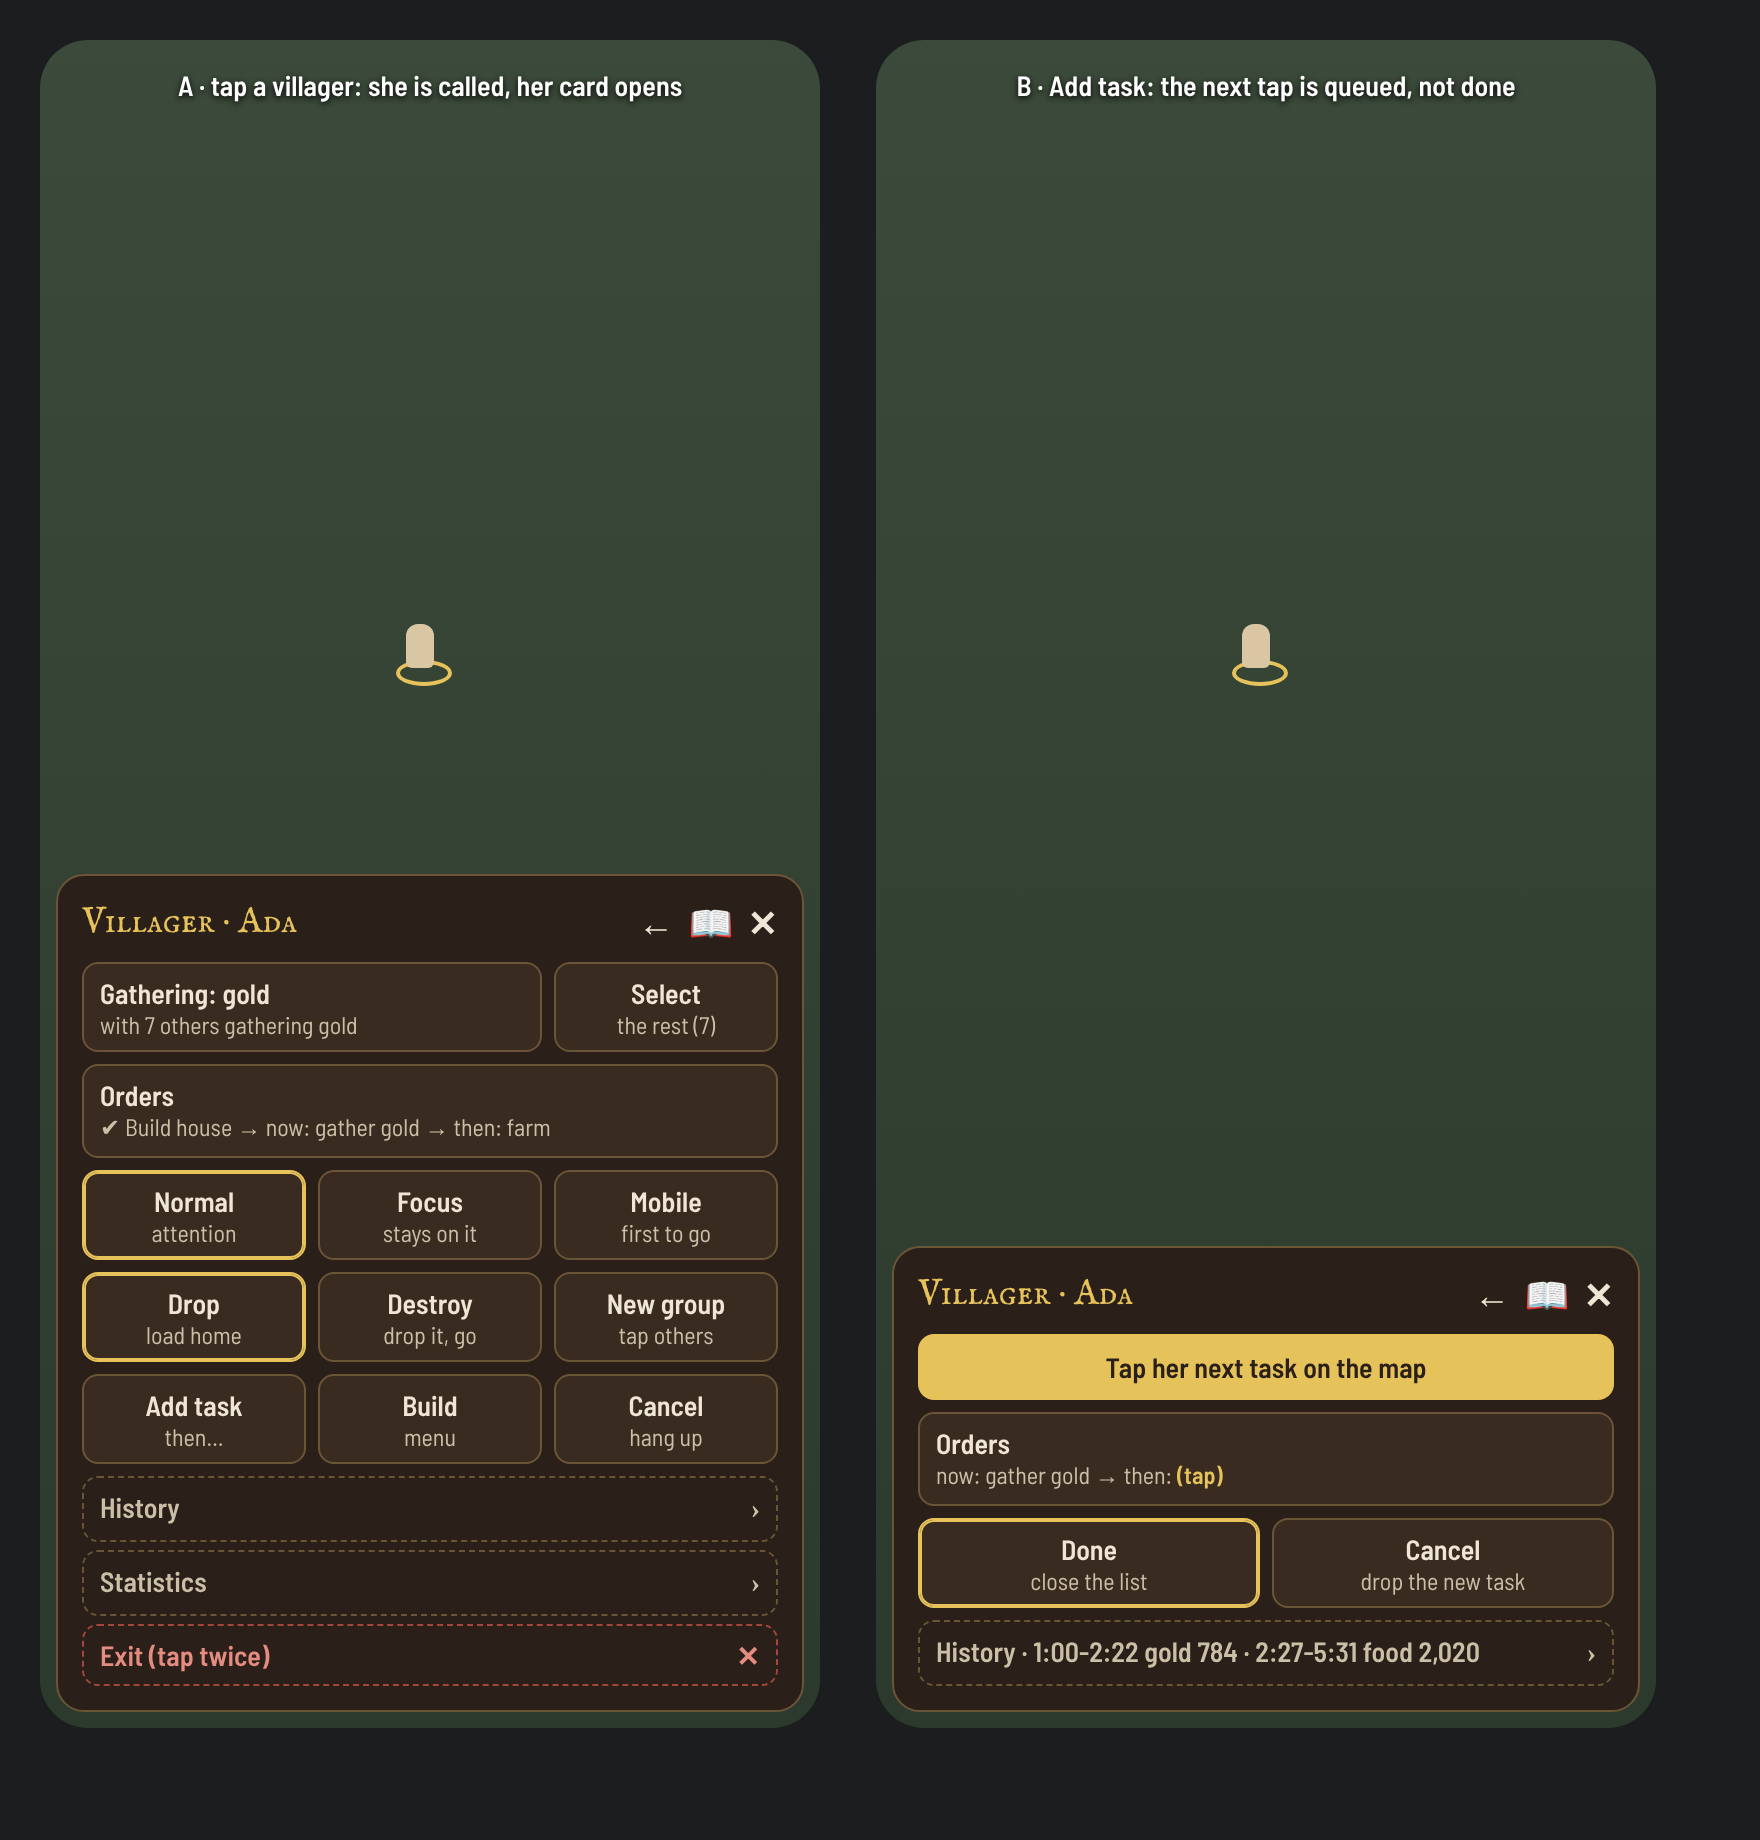
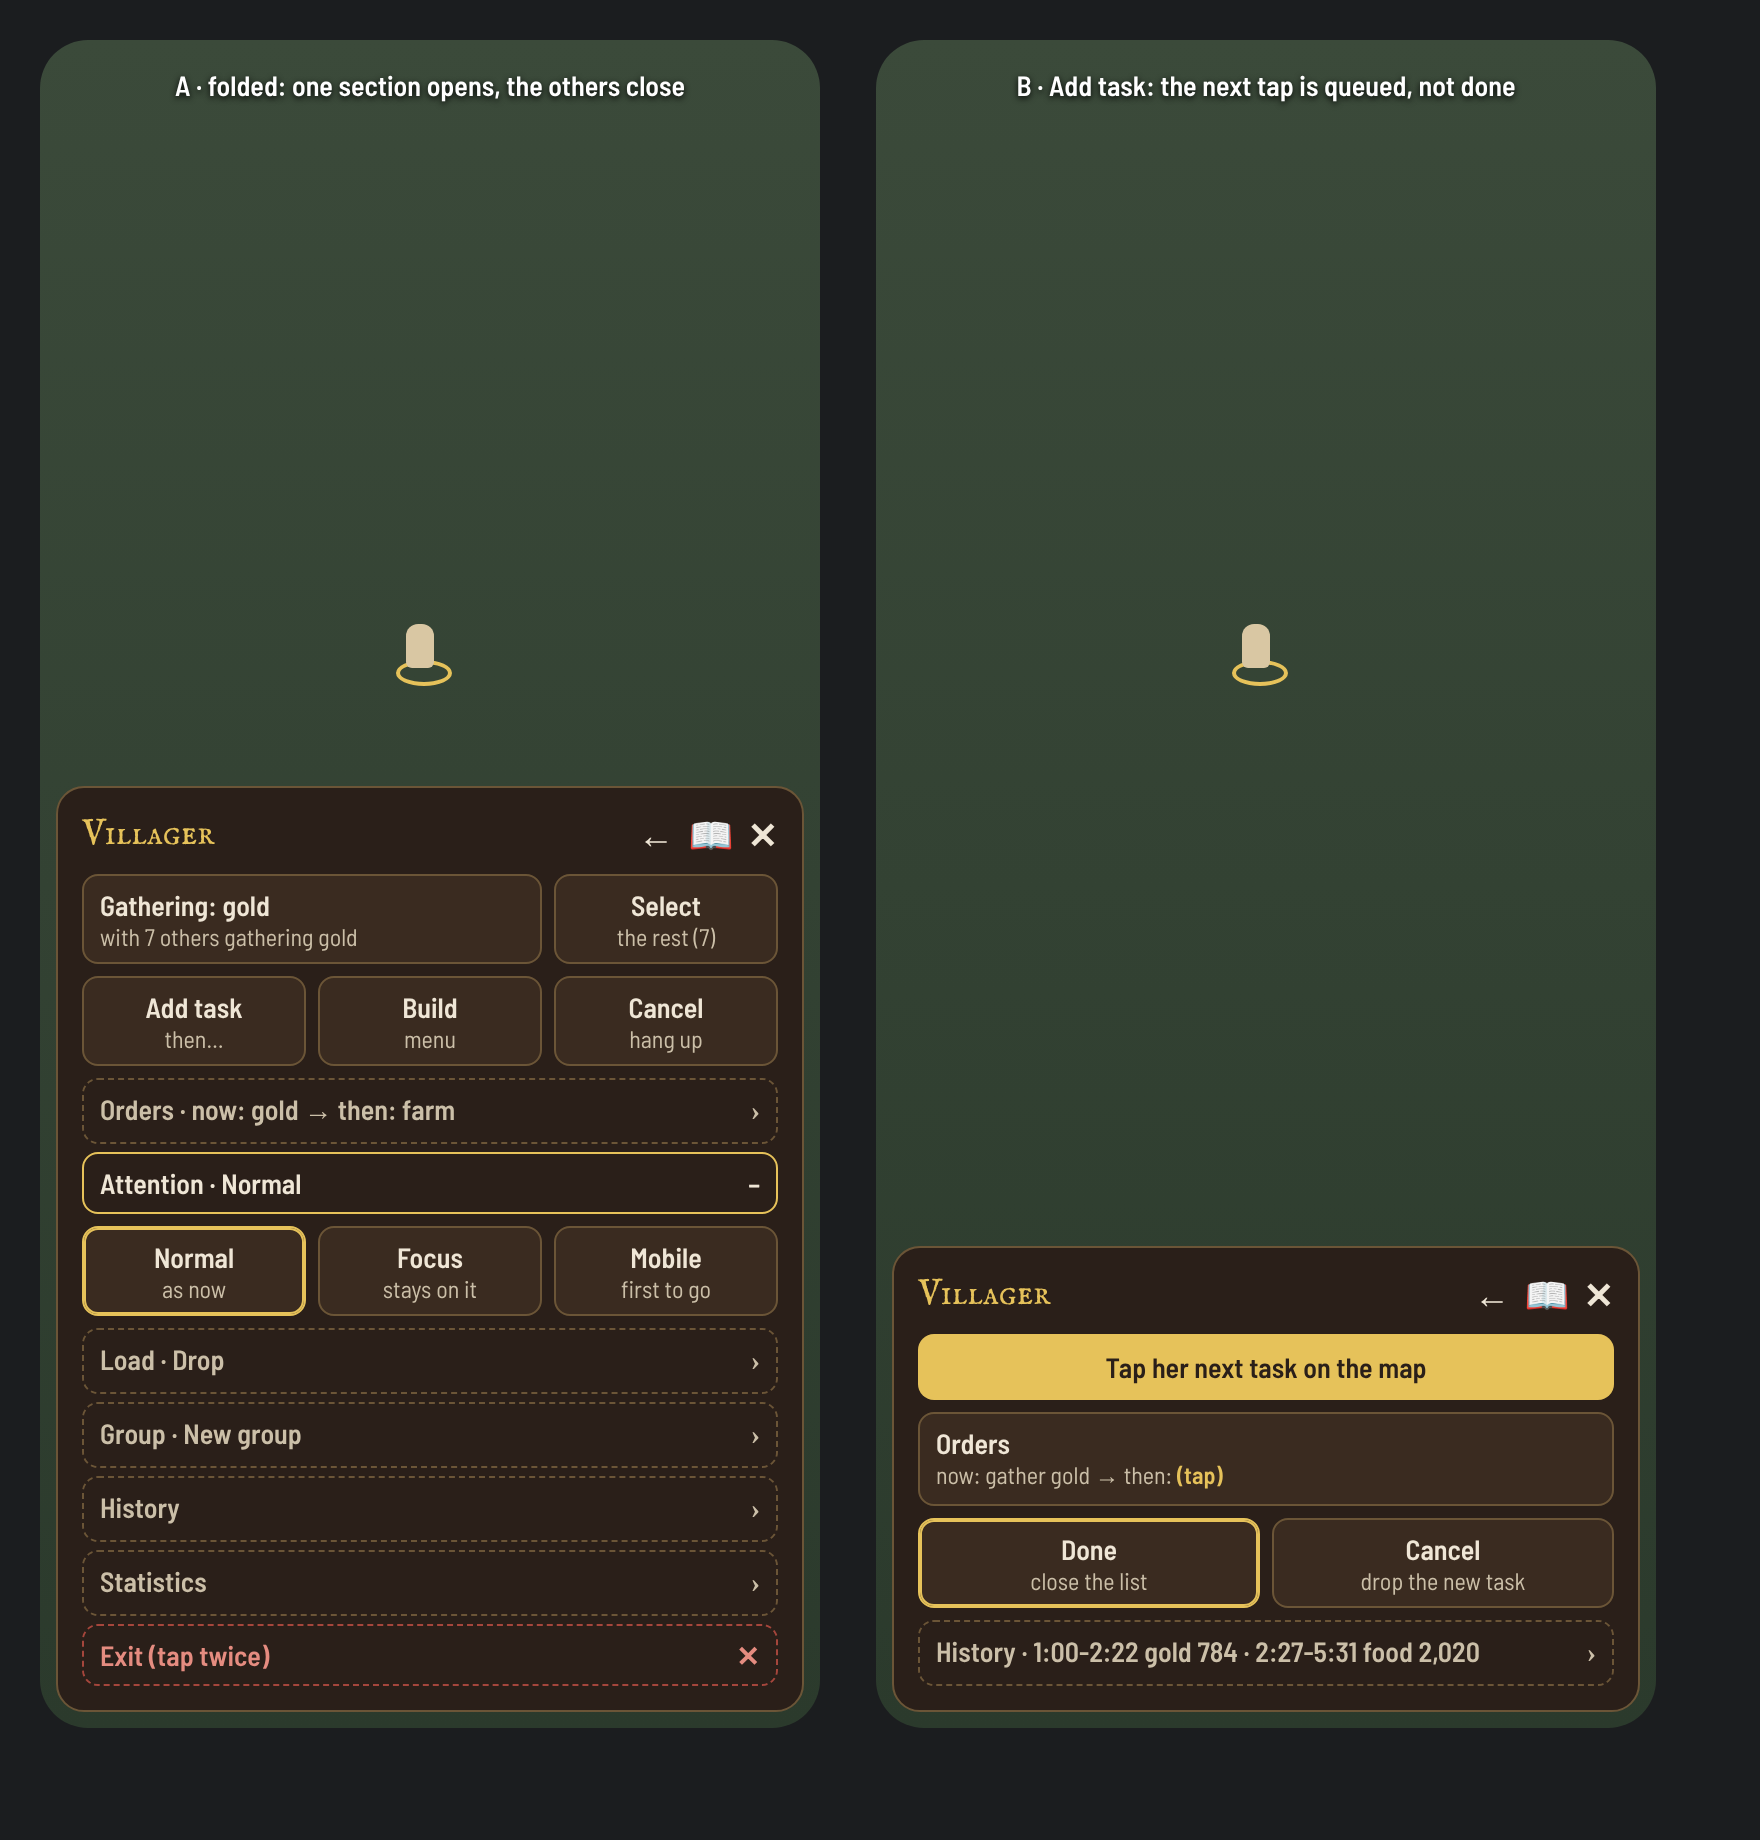
P2b mock 2: folded sections, one open at a time
Claude-Session: https://claude.ai/code/session_017QywRJBcxaNk58v8RT3hvF

Changed region(s): [[0.0312, 0.4027, 0.4688, 0.8054], [0.0938, 0.031, 0.375, 0.062]]

diff --git a/mockups/p2b/card.html b/mockups/p2b/card.html
@@ -15,21 +15,23 @@ body{margin:0;background:#1b1d1f;display:flex;gap:28px;padding:20px;font-family:
 .vil{position:absolute;width:14px;height:22px;background:#d9c7a3;border-radius:6px 6px 3px 3px}.ring{position:absolute;width:24px;height:9px;border:2px solid #e6c25a;border-radius:50%}
 .tag{position:absolute;bottom:-26px;left:0;right:0;text-align:center;color:#9aa;font:400 12px 'Barlow Semi Condensed'}
 </style></head><body>
-<div><div class="ph"><div class="cap">A · tap a villager: she is called, her card opens</div>
+<div><div class="ph"><div class="cap">A · folded: one section opens, the others close</div>
 <div class="ring" style="left:178px;top:310px"></div><div class="vil" style="left:183px;top:292px"></div>
 <div class="card">
- <div class="hd"><span class="t">Villager · Ada</span><span class="ic">←&nbsp; 📖&nbsp; ✕</span></div>
+ <div class="hd"><span class="t">Villager</span><span class="ic">←&nbsp; 📖&nbsp; ✕</span></div>
  <div class="row"><div class="box s4"><div class="k">Gathering: gold</div><div class="v">with 7 others gathering gold</div></div><div class="box s2 btn"><div class="k">Select</div><div class="v">the rest (7)</div></div></div>
- <div class="row"><div class="box s6"><div class="k">Orders</div><div class="v">✔ Build house → now: gather gold → then: farm</div></div></div>
- <div class="row"><div class="box s2 btn on"><div class="k">Normal</div><div class="v">attention</div></div><div class="box s2 btn"><div class="k">Focus</div><div class="v">stays on it</div></div><div class="box s2 btn"><div class="k">Mobile</div><div class="v">first to go</div></div></div>
- <div class="row"><div class="box s2 btn on"><div class="k">Drop</div><div class="v">load home</div></div><div class="box s2 btn"><div class="k">Destroy</div><div class="v">drop it, go</div></div><div class="box s2 btn"><div class="k">New group</div><div class="v">tap others</div></div></div>
  <div class="row"><div class="box s2 btn"><div class="k">Add task</div><div class="v">then…</div></div><div class="box s2 btn"><div class="k">Build</div><div class="v">menu</div></div><div class="box s2 btn"><div class="k">Cancel</div><div class="v">hang up</div></div></div>
+ <div class="fold"><span>Orders · now: gold → then: farm</span><span>›</span></div>
+ <div class="fold" style="border-style:solid;border-color:#e6c25a;color:#efe6d6"><span>Attention · Normal</span><span>–</span></div>
+ <div class="row" style="margin-top:6px"><div class="box s2 btn on"><div class="k">Normal</div><div class="v">as now</div></div><div class="box s2 btn"><div class="k">Focus</div><div class="v">stays on it</div></div><div class="box s2 btn"><div class="k">Mobile</div><div class="v">first to go</div></div></div>
+ <div class="fold"><span>Load · Drop</span><span>›</span></div>
+ <div class="fold"><span>Group · New group</span><span>›</span></div>
  <div class="fold"><span>History</span><span>›</span></div><div class="fold"><span>Statistics</span><span>›</span></div><div class="fold ex"><span>Exit (tap twice)</span><span>✕</span></div>
-</div></div><div class="tag">rows 1-6 on top, History, Statistics, Exit folded</div></div>
+</div></div><div class="tag">› opens, – closes; each folded row shows its current setting</div></div>
 <div><div class="ph"><div class="cap">B · Add task: the next tap is queued, not done</div>
 <div class="ring" style="left:178px;top:310px"></div><div class="vil" style="left:183px;top:292px"></div>
 <div class="card">
- <div class="hd"><span class="t">Villager · Ada</span><span class="ic">←&nbsp; 📖&nbsp; ✕</span></div>
+ <div class="hd"><span class="t">Villager</span><span class="ic">←&nbsp; 📖&nbsp; ✕</span></div>
  <div class="prompt">Tap her next task on the map</div>
  <div class="row"><div class="box s6"><div class="k">Orders</div><div class="v">now: gather gold → then: <b style="color:#e6c25a">(tap)</b></div></div></div>
  <div class="row"><div class="box s3 btn on"><div class="k">Done</div><div class="v">close the list</div></div><div class="box s3 btn"><div class="k">Cancel</div><div class="v">drop the new task</div></div></div>
